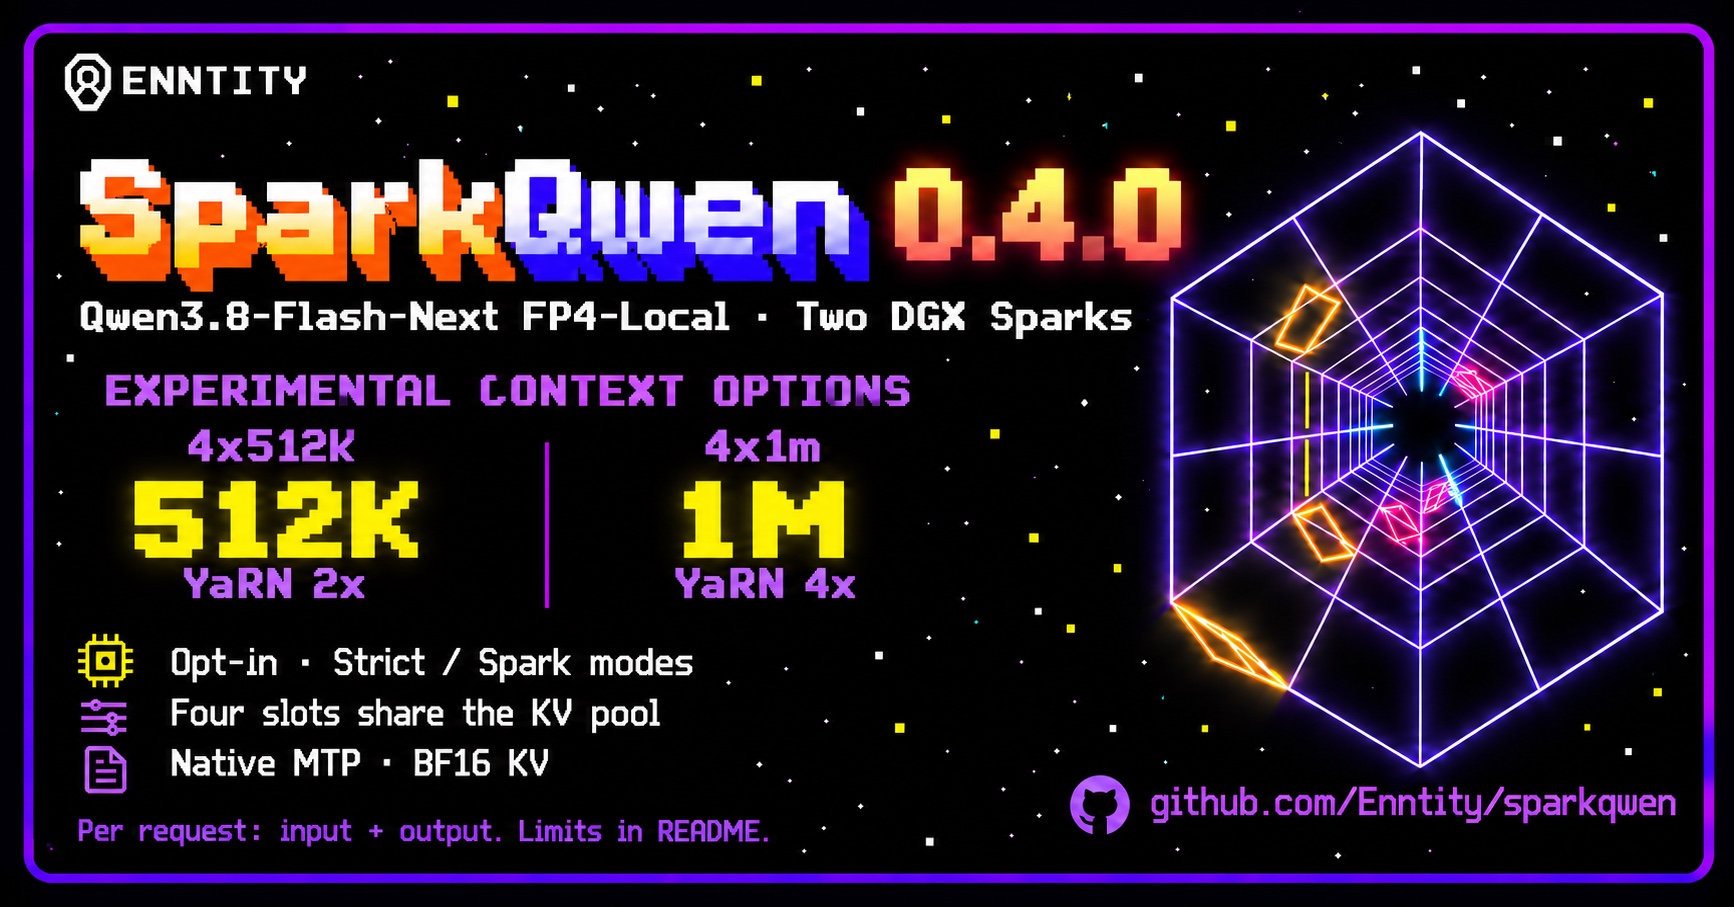
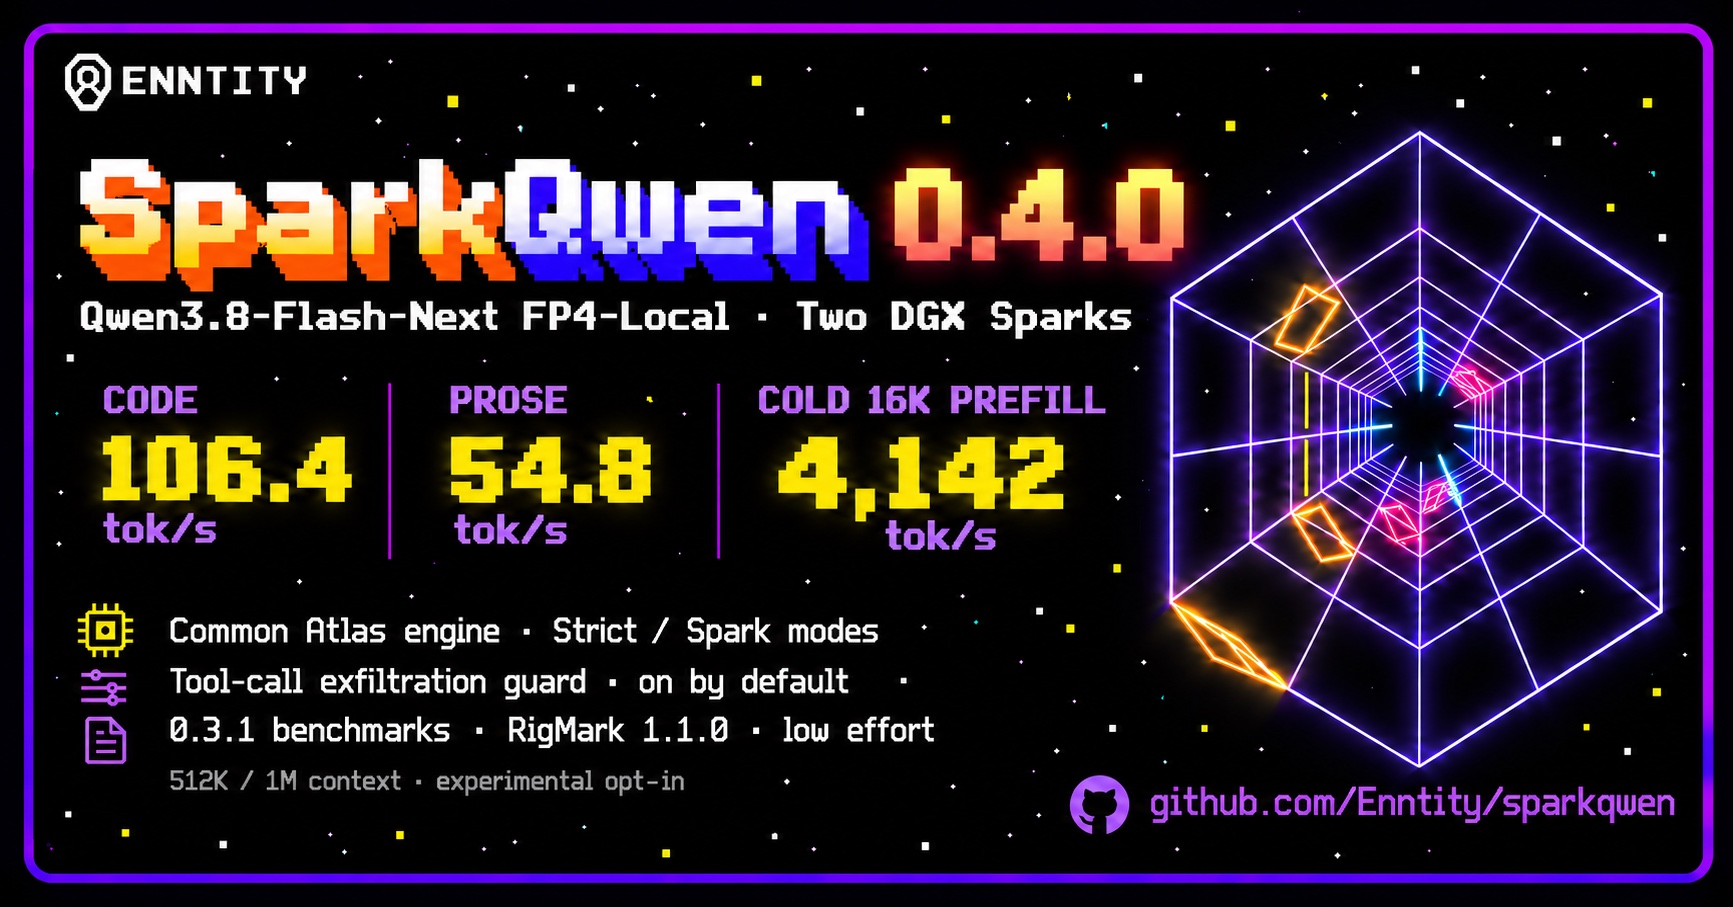
docs: restore performance-led 0.4.0 cards

diff --git a/docs/assets/PROMPTS.md b/docs/assets/PROMPTS.md
@@ -1,15 +1,15 @@
 <!-- SPDX-License-Identifier: AGPL-3.0-only -->
 # Card prompts
 
-Updated for 0.4.0 with the built-in image generation tool on 2026-10-27.
-Each existing 0.3.3 card was supplied as its own edit target. Outputs were
-visually checked; the social card renders the 512K profile label with an
-uppercase K. The CLI spelling is `4x512k`.
+Revised for 0.4.0 with the built-in image generation tool on 2026-10-27.
+The performance-led 0.3.3 cards from commit `70c6c845` were the edit targets.
+Both outputs were visually checked. Performance figures remain prominent;
+the new context options appear only in a small supporting line.
 
 ## Banner
 
-Use case: text-localization. The provided image is the edit target. Update this SparkQwen release card to 0.4.0. Preserve the existing purple arcade frame, black starfield, white ENNTITY logo, pixel typography, orange Spark / purple Qwen lettering, neon wireframe tunnel illustration on the right, palette and generous margins. Replace the title with exactly 'SparkQwen 0.4.0'. Preserve subtitle 'Qwen3.8-Flash-Next FP4-Local · Two DGX Sparks'. Remove ALL old throughput metrics and benchmark labels. Replace the three metric columns with TWO large unboxed feature columns: first label '4x512k', large yellow '512K', smaller purple 'YaRN 2x'; second label '4x1m', large yellow '1M', smaller purple 'YaRN 4x'. Above these columns put a clear purple label 'EXPERIMENTAL CONTEXT OPTIONS'. Below the columns use these three exact supporting lines, with small existing-style icons: 'Opt-in · Strict / Spark modes'; 'Four slots share the KV pool'; 'Native MTP · BF16 KV'. At the bottom, readable smaller text 'Per request: input + output. Limits in README.' Preserve URL exactly 'github.com/Enntity/sparkqwen'. No other text, no throughput claims, no new badges or boxes. All text must be crisp, verbatim, well-spaced, no clipping. Output the wide README banner at 3:1 aspect ratio, approximately 2172x724.
+Use case: text-localization. Input image is the edit target. Preserve this exact performance-led SparkQwen card design: purple arcade border, black starfield, ENNTITY logo, pixel typography, orange Spark / purple Qwen title, neon wireframe tunnel on the right, and THREE large unboxed metric columns. Change title only to 'SparkQwen 0.4.0'. KEEP the performance numbers front and center at their current large size: CODE / 106.4 / tok/s; PROSE / 54.8 / tok/s; COLD 16K PREFILL / 4,142 / tok/s. Preserve subtitle 'Qwen3.8-Flash-Next FP4-Local · Two DGX Sparks'. Preserve supporting lines 'Common Atlas engine · Strict / Spark modes', 'Tool-call exfiltration guard · on by default', and '0.3.1 benchmarks · RigMark 1.1.0 · low effort'. Add ONLY ONE SMALL supporting line below them: '512K / 1M context · experimental opt-in'. This context line must be visually secondary and smaller than the existing supporting lines, with no large context numbers, badges or feature columns. Preserve URL 'github.com/Enntity/sparkqwen'. All text verbatim and crisp. Maintain breathing room and safe margins, no overlapping text or clipping. Output wide README banner at approximately 2172x724, 3:1 aspect ratio.
 
 ## Social preview
 
-Use case: text-localization. The provided image is the edit target. Update this SparkQwen release card to 0.4.0. Preserve the existing purple arcade frame, black starfield, white ENNTITY logo, pixel typography, orange Spark / purple Qwen lettering, neon wireframe tunnel illustration on the right, palette and generous margins. Replace the title with exactly 'SparkQwen 0.4.0'. Preserve subtitle 'Qwen3.8-Flash-Next FP4-Local · Two DGX Sparks'. Remove ALL old throughput metrics and benchmark labels. Replace the three metric columns with TWO large unboxed feature columns: first label '4x512k', large yellow '512K', smaller purple 'YaRN 2x'; second label '4x1m', large yellow '1M', smaller purple 'YaRN 4x'. Above these columns put a clear purple label 'EXPERIMENTAL CONTEXT OPTIONS'. Below the columns use these three exact supporting lines, with small existing-style icons: 'Opt-in · Strict / Spark modes'; 'Four slots share the KV pool'; 'Native MTP · BF16 KV'. At the bottom, readable smaller text 'Per request: input + output. Limits in README.' Preserve URL exactly 'github.com/Enntity/sparkqwen'. No other text, no throughput claims, no new badges or boxes. All text must be crisp, verbatim, well-spaced, no clipping. Output the social preview at approximately 1.91:1 aspect ratio, 1728x904, retaining generous safe margins.
+Use case: text-localization. Input image is the edit target. Preserve this exact performance-led SparkQwen card design: purple arcade border, black starfield, ENNTITY logo, pixel typography, orange Spark / purple Qwen title, neon wireframe tunnel on the right, and THREE large unboxed metric columns. Change title only to 'SparkQwen 0.4.0'. KEEP the performance numbers front and center at their current large size: CODE / 106.4 / tok/s; PROSE / 54.8 / tok/s; COLD 16K PREFILL / 4,142 / tok/s. Preserve subtitle 'Qwen3.8-Flash-Next FP4-Local · Two DGX Sparks'. Preserve supporting lines 'Common Atlas engine · Strict / Spark modes', 'Tool-call exfiltration guard · on by default', and '0.3.1 benchmarks · RigMark 1.1.0 · low effort'. Add ONLY ONE SMALL supporting line below them: '512K / 1M context · experimental opt-in'. This context line must be visually secondary and smaller than the existing supporting lines, with no large context numbers, badges or feature columns. Preserve URL 'github.com/Enntity/sparkqwen'. All text verbatim and crisp. Maintain breathing room and safe margins, no overlapping text or clipping. Output social preview at approximately 1728x904, 1.91:1 aspect ratio.

diff --git a/docs/assets/README.md b/docs/assets/README.md
@@ -1,12 +1,12 @@
 <!-- SPDX-License-Identifier: AGPL-3.0-only -->
 # SparkQwen 0.4.0 cards
 
-`banner.png` is the README hero (2171 × 724). `social-preview.png` is the
-matching social card (1734 × 907); `social-preview.jpg` is its same-dimension
+`banner.png` is the README hero (2172 × 724). `social-preview.png` is the
+matching social card (1733 × 907); `social-preview.jpg` is its same-dimension
 JPEG export, below 1 MB. The built-in image generation tool updated both
 cards on 2026-10-27. [Exact prompts](PROMPTS.md) preserve the edit instructions.
 
-The cards introduce the experimental, opt-in `4x512k` and `4x1m` profiles:
+A small supporting line mentions the experimental, opt-in `4x512k` and `4x1m` profiles:
 524,288 and 1,000,000 tokens per request, including input and output, with
 static YaRN factors of 2 and 4. Both support Strict and Spark modes with
 native MTP and BF16 KV. Four scheduler slots share the KV pool; this does
@@ -18,8 +18,18 @@ for the focused checks and limits. Near-limit retrieval used one synthetic
 fixture per tested arm. Four maximum-length concurrent prompts, broad long
 reasoning and long multimodal inputs were not qualified.
 
-These feature cards contain no throughput claims. Historical 0.3.1
-measurements remain labeled in the main README and their original report.
+The three prominent figures are historical **0.3.1** measurements: code
+**106.4 tok/s**, prose **54.8 tok/s**, cold 16K prefill **4,142 tok/s**.
+The cards explicitly label their benchmark version; these are not new
+0.4.0 measurements. They use the first passing complete run of two scheduled
+runs, with three repetitions per decode workload and ten cold/replay pairs.
+Both complete runs and all repetitions are in the
+[qualification report](../../results/2026-10-24-common-engine/RESULT.md).
+Both runs pass 9/9 basic output gates, which check completion and shape,
+not semantic code quality. The main README reports paging and other limits.
+
+The guard line describes the default-on pattern filter, not protection from
+all exfiltration. See [coverage and limits](../TOOL-GUARD.md).
 
 The edits preserve the purple arcade frame, pixel lettering and wireframe
 illustration. Both generated images and the JPEG export were visually

diff --git a/README.md b/README.md
@@ -1,6 +1,6 @@
 <!-- SPDX-License-Identifier: AGPL-3.0-only -->
 <p align="center">
-  <img src="docs/assets/banner.png" alt="SparkQwen 0.4.0: experimental, opt-in 4x512k and 4x1m context profiles with YaRN 2x and 4x. Strict and Spark modes, native MTP and BF16 KV. Four slots share the KV pool; per-request limits include input and output." width="100%">
+  <img src="docs/assets/banner.png" alt="SparkQwen 0.4.0. Historical 0.3.1 benchmarks: code 106.4 tok/s, prose 54.8 tok/s, cold 16K prefill 4,142 tok/s. Common Atlas engine, Strict and Spark modes, tool-call guard on by default. Experimental opt-in 512K and 1M context options." width="100%">
 </p>
 
 # SparkQwen
